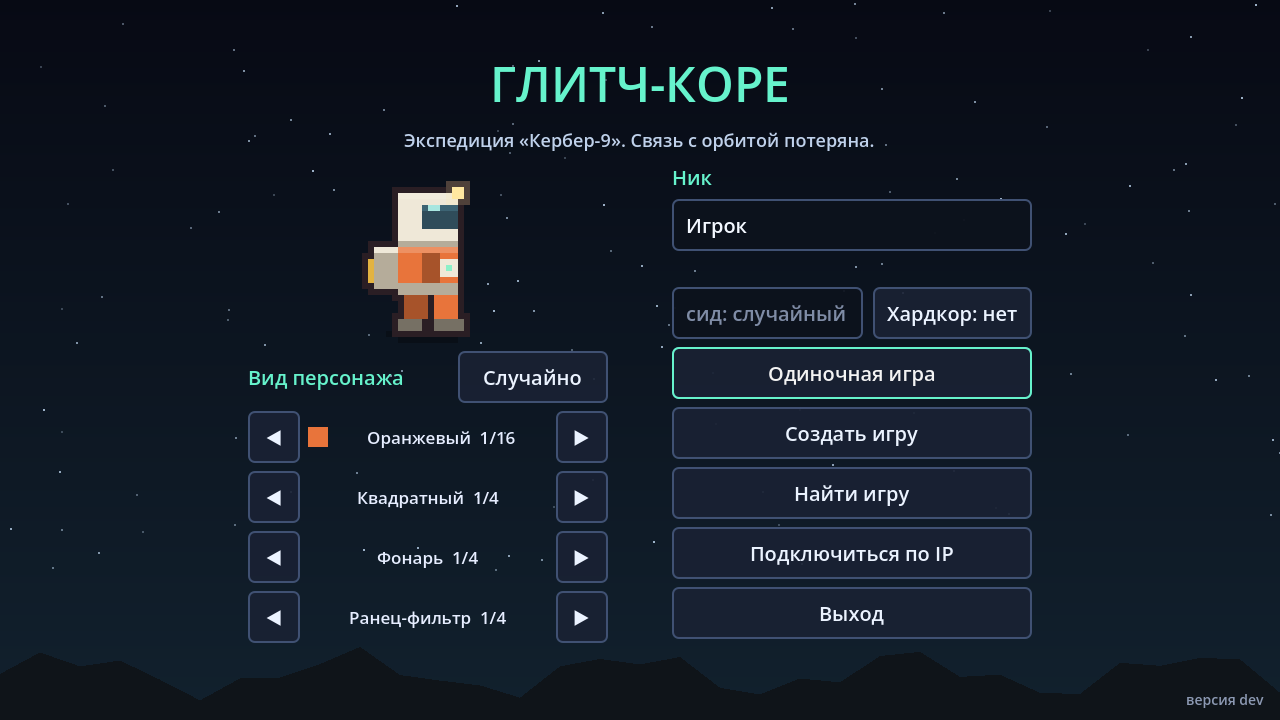
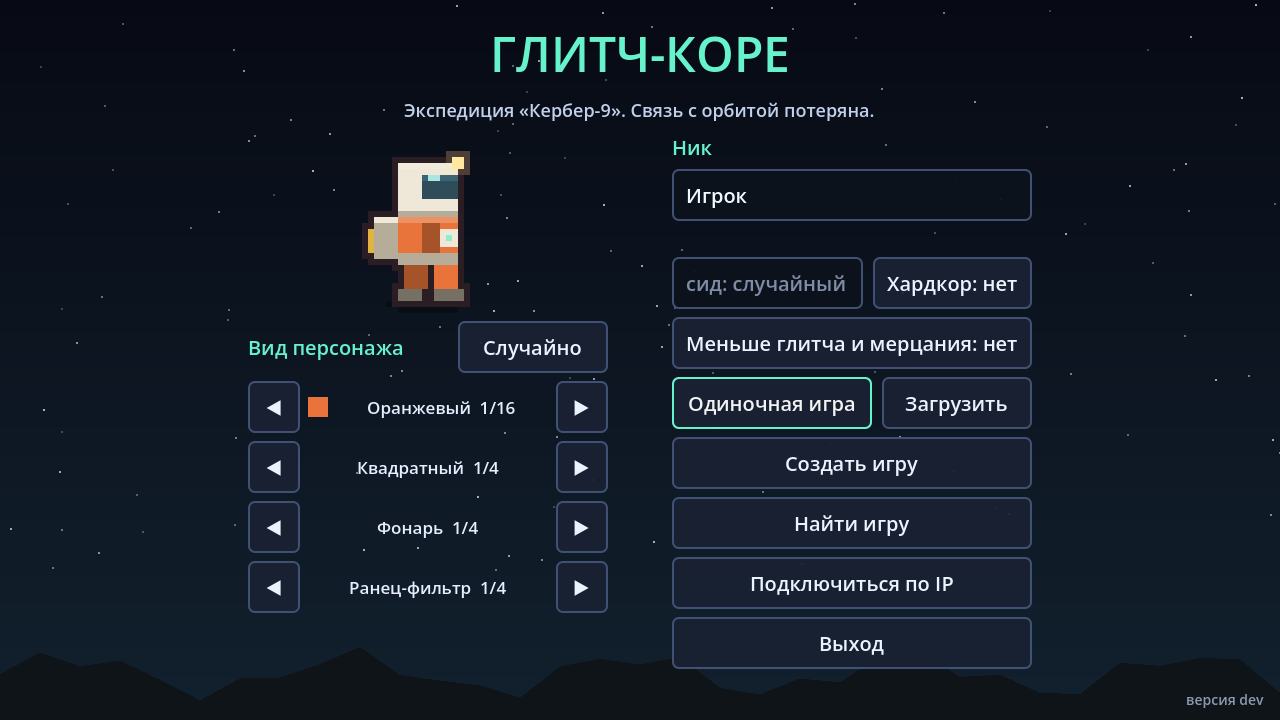
Тесты: временные профили glitch_fx и menu_test — на процесс; save_test проверяет файл процесса; README_TESTS и снимок меню (#132)

diff --git a/tools/README_TESTS.md b/tools/README_TESTS.md
@@ -388,6 +388,19 @@ godot --headless --path . --script res://tools/save_test.gd
 релея), фабрика плавит дальше. Слоты тестов свои
 (`selftest`, `scenario`): сохранение игрока (`user://save_1.sav`) не трогается.
 
+### Тестовые файлы — свои у процесса (#132)
+
+Тесты на одной машине идут параллельно (несколько worktree, сиды разом), а `user://`
+у проекта один. В тестовом прогоне (`TestEnv.active()`: `--test`, `--scenario=`,
+`--mp-scenario=` — и хост, и клиенты-процессы, инструменты `--script`) файл слота —
+`user://save_<слот>~t<pid>.sav` (`Save.path_for`), профиль по умолчанию —
+`user://profile~t<pid>.cfg` (`Profile.default_path`), временные профили тестов —
+`TestEnv.file(путь)` (`menu_test`, `glitch_fx`; `lobby_driver` — уже с pid). Тесты
+удаляют свои слоты за собой; сохранения и профиль игрока не читаются и не пишутся
+(«меньше глитча» в тестах — из файла теста, т. е. выключено). Меню в тестовом прогоне
+видит только файлы своего процесса, игрок тестовых файлов не видит. Игра без этих флагов
+работает с прежними путями. Проверка: два `--test` на разных сидах одновременно — оба зелёные.
+
 ### Небесный тайник (#60)
 
 Сценарий (`-- --scenario=sky_secret`, предел 120 с):
@@ -471,7 +484,12 @@ godot --headless --path . --script res://tools/save_test.gd
   неизвестный индекс рисуется как 0; «Случайно» — только из `Avatar.VARIANTS`;
 * профиль `user://profile.cfg` туда-обратно во временный путь (`user://menu_test/`): uid
   создаётся один раз, битые поля и мусор вместо файла — значения по умолчанию;
-* меню ребёнком сцены: ник блокирует кнопки игры, стрелки вида, сетевые экраны (MP-H).
+* меню ребёнком сцены: ник блокирует кнопки игры, стрелки вида, сетевые экраны (MP-H);
+* «Загрузить» (#132, `== Меню: «Загрузить» (#132) ==`): синтетические сохранения
+  (одиночное, сетевое с никами, битое) — строки «тип · дата / сид · смена · игроки», битое
+  серое с причиной; нет файлов — «Загрузить» и «Из сохранения…» серые; тестовые слоты
+  видны только своему процессу; выбор для одиночной (`Net.session` с `load`) и для
+  «Создать игру» (сид из файла, поле закрыто, «Новый мир» — отказ).
 
 Сетевые экраны (MP-H, #93) — `== Сеть: адрес, форма хоста, поиск (MP-H) ==`: таблица адресов
 «По IP» (IPv4[:порт], имя хоста; неверные — с причиной), форма «Создать игру» (имя 1–24,
@@ -481,7 +499,12 @@ godot --headless --path . --script res://tools/save_test.gd
 
 Только в отдельном запуске: меню — текущая сцена (дерево на паузе, HUD скрыт), тапы
 `InputEventScreenTouch` по стрелке цвета, «Найти игру» (поиск на петле) и «Назад», «Хардкор» и «Одиночная игра» →
-мир с сидом, хардкором и цветом из профиля; замер `Player._draw` до/после (мкс на героя).
+мир с сидом, хардкором и цветом из профиля; дальше «Загрузить» (#132): мир меняется
+(смена 3, метка в инвентаре, выкопанные клетки) и пишется в слот F5, меню — тапы
+«Загрузить» → строка → «Загрузить»: мир того же сида, клетки, смена и инвентарь — как при
+сохранении, хардкор снят; затем «Создать игру» → «Из сохранения…» → «Выбрать» → «Создать»
+(петля 127.0.0.1) → «Старт»: хост грузит тот же слот (`Net.session["load"]`, `Save.load_net`).
+Замер `Player._draw` до/после (мкс на героя).
 
 Снимок меню (`docs/img/menu.png`) и попиксельная сверка `Avatar.draw` с прежним
 рисунком героя — окно за экраном:
